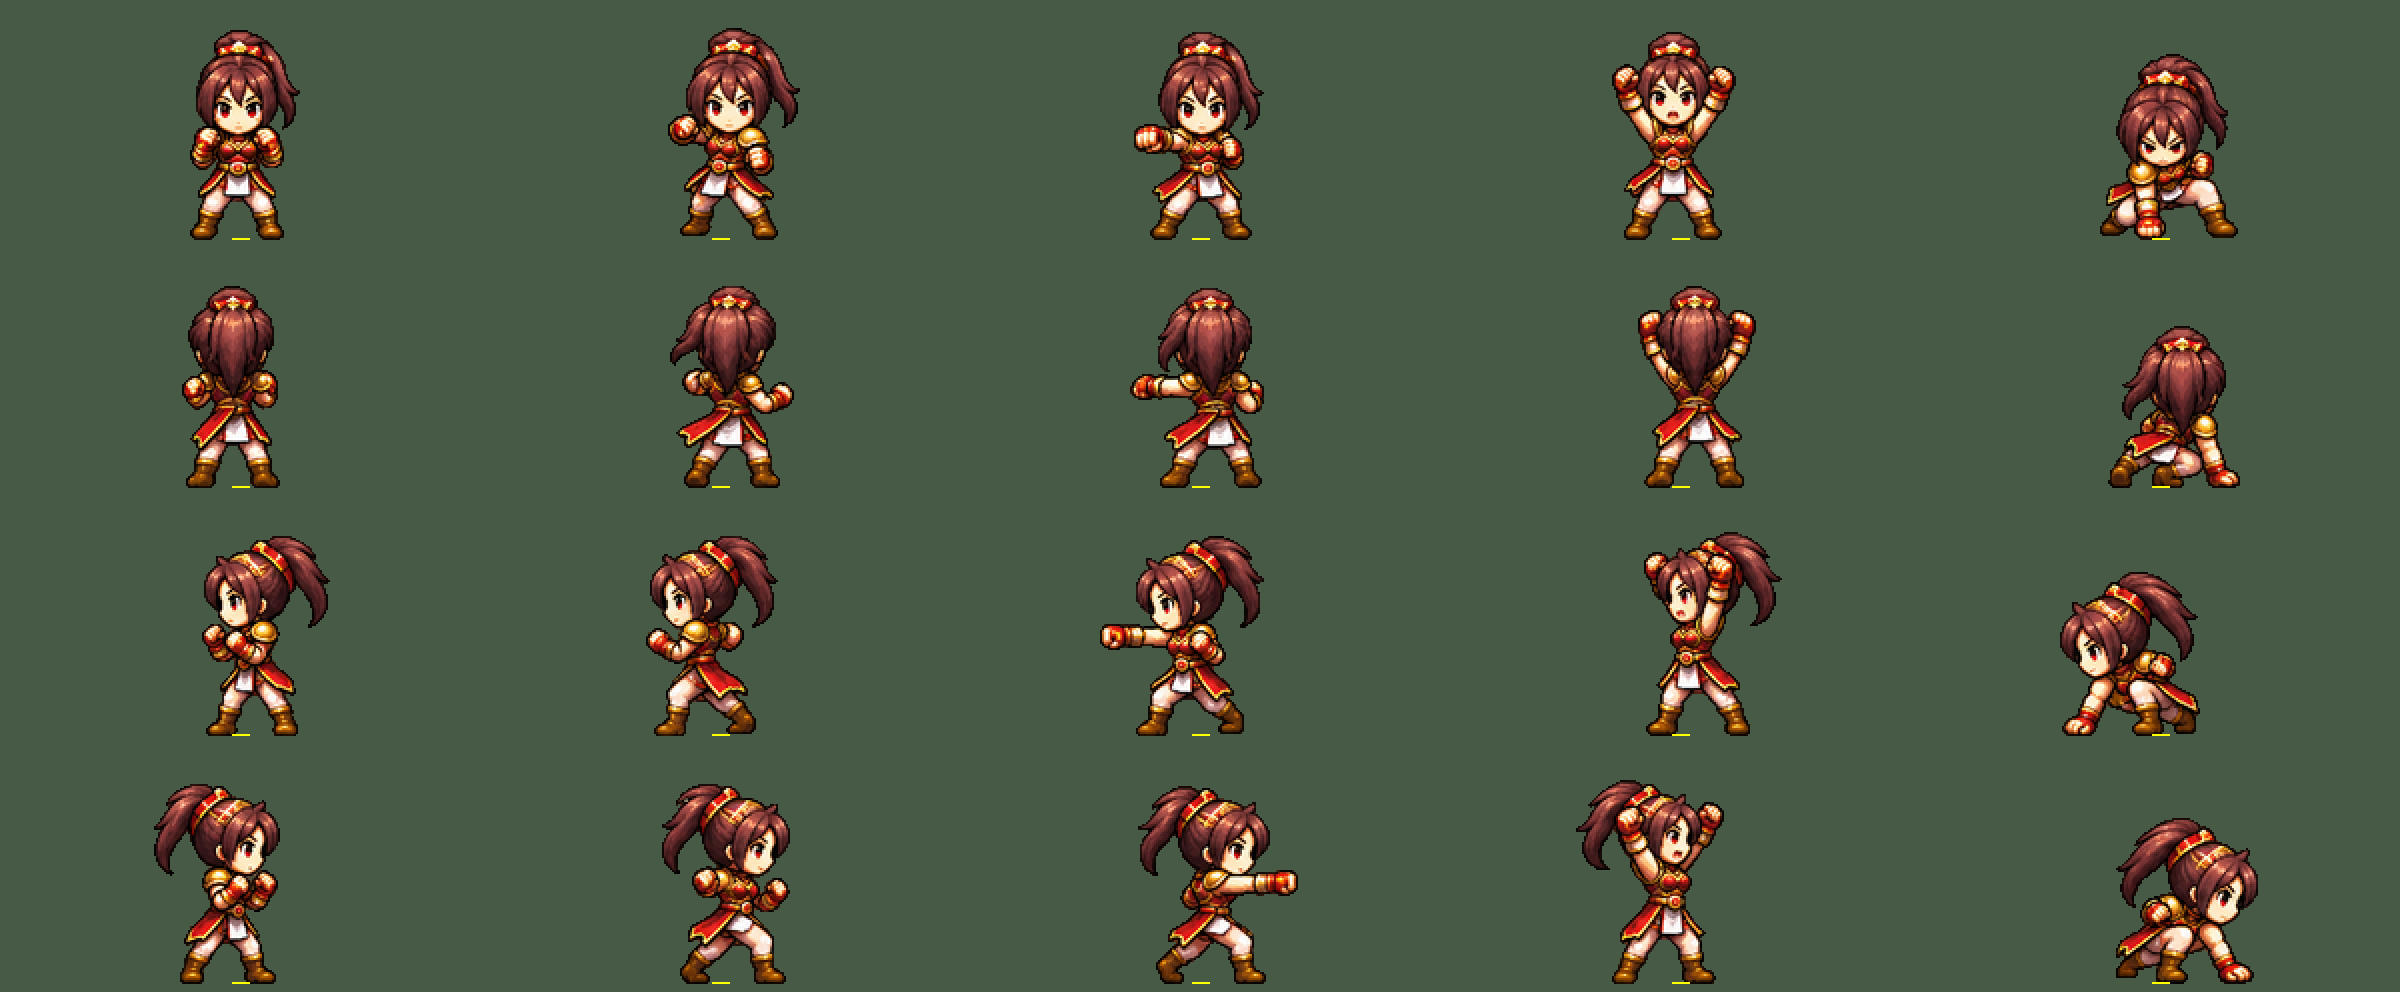
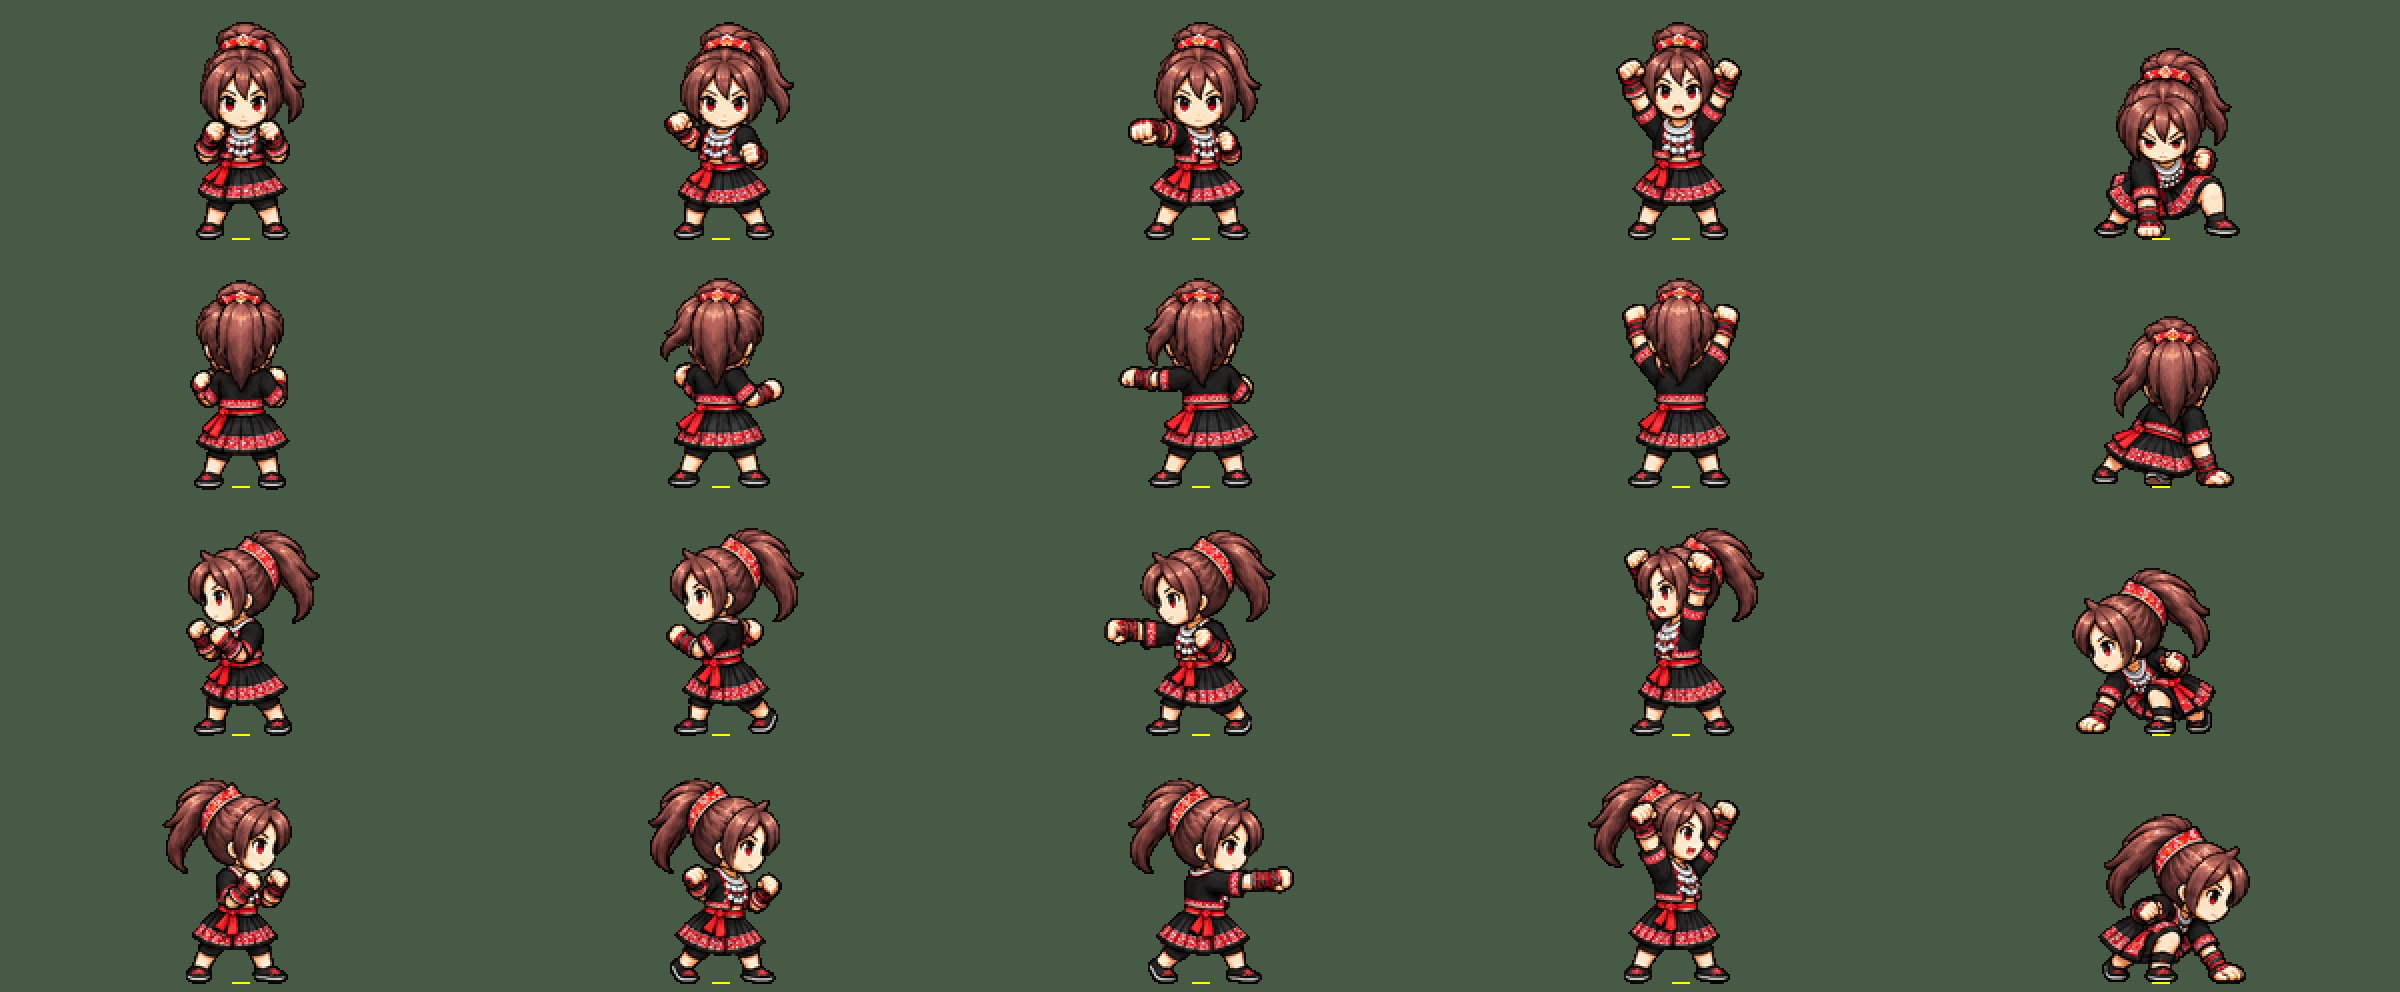
V2-R66: female fighter in Hmong costume (walk and attack sheets)
- Attack sheet: owner's transparent PNG (4 directions x 5 frames) now feeds
  pca_fighter_f. Faint pixels with alpha below 40 (81,885 of them) are removed
  from the source; they inflated the measured frame height, which made the
  attack about 5% shorter than the walk. Heights now match in all four
  directions (1.00 / 0.98 / 0.99 / 1.00).
- Walk sheet: owner's phone screenshot (JPEG, black background). The figures
  were separated from the background by their silhouette, so the black outfit
  is kept. A PNG original would give sharper frames.
- tools/build_class_bodies.py and tools/build_attack4.py point the female
  fighter at the new v3 files.
- Audit 16/16; smoke 149/149, sim 119/119, online 103/103. healthz reports V2-R66.

Claude-Session: https://claude.ai/code/session_01Fx9SAiv1fdMtU2kmML8rNS

diff --git a/server/server.js b/server/server.js
@@ -74,7 +74,7 @@ function createServer(opts = {}) {
     const url = new URL(req.url, 'http://x');
     for (const [k, v] of Object.entries(SEC_HEADERS)) res.setHeader(k, v);
     try {
-      if (req.method === 'GET' && url.pathname === '/healthz') return json(res, 200, { ok: true, ver: 'V2-R64', online: online.size, uptime: Math.round(process.uptime()), admins: conf.admins.length }); // admins = จำนวนชื่อใน ADMIN_USERS (ไม่เปิดเผยชื่อ) ใช้ตรวจว่าตั้งค่าบน Render แล้ว
+      if (req.method === 'GET' && url.pathname === '/healthz') return json(res, 200, { ok: true, ver: 'V2-R66', online: online.size, uptime: Math.round(process.uptime()), admins: conf.admins.length }); // admins = จำนวนชื่อใน ADMIN_USERS (ไม่เปิดเผยชื่อ) ใช้ตรวจว่าตั้งค่าบน Render แล้ว
       if (req.method === 'GET' && (url.pathname === '/' || url.pathname === '/index.html')) {
         res.writeHead(200, { 'content-type': 'text/html; charset=utf-8', 'cache-control': 'no-cache' });
         return fs.createReadStream(conf.gameFile).pipe(res);

diff --git a/game/index.html b/game/index.html
@@ -129,7 +129,7 @@ button:focus-visible{outline:3px solid var(--ink);outline-offset:2px}
 </div>
 <script>
 (function(){
-const ASSET_V='7b201f2af9';/*ASSET_V*/const sprUrl=f=>'sprites/'+f+'?v='+ASSET_V; /* V2-R63: รุ่นของสปริต กันเครื่องที่แคชไฟล์เก่าไว้ */
+const ASSET_V='ab9de86e93';/*ASSET_V*/const sprUrl=f=>'sprites/'+f+'?v='+ASSET_V; /* V2-R63: รุ่นของสปริต กันเครื่องที่แคชไฟล์เก่าไว้ */
 const T=32,COLS=48,ROWS=32,W=COLS*T,H=ROWS*T;
 const hh=(x,y,s)=>{let n=(x*374761393+y*668265263+(s||0)*982451653)|0;n=Math.imul(n^(n>>>13),1274126177);return(((n^(n>>>16))>>>0)/4294967295)};
 const inb=(x,y)=>x>=0&&y>=0&&x<COLS&&y<ROWS;

diff --git a/tools/build_attack4.py b/tools/build_attack4.py
@@ -17,7 +17,7 @@ ATK4_SETS = [  # (ชุด, ไฟล์ต้นฉบับ) — ตัวล
     ('f0', 'swordsman_f_attack.png'),
 ]
 BODY_SETS = [  # (id, อาชีพ, เพศ, ไฟล์ต้นฉบับ) — ตัวละครประจำอาชีพ → game/sprites/pca_<id>.webp (V2-R54) จำนวนเฟรมต่อแถวตามภาพ (4 หรือ 5)
-    ('fighter_f', 'นักสู้', 'f', 'fighter_f_attack.png'),
+    ('fighter_f', 'นักสู้', 'f', 'fighter_f_attack_v3.png'),  # V2-R65: นักสู้หญิงชุดม้ง 5 เฟรม
     ('fighter_m', 'นักสู้', 'm', 'fighter_m_attack.png'),  # V2-R60: นักสู้ชาย 5 เฟรม (ชุดเดียวกับชุดเดินใหม่)
     ('assassin_m', 'นักฆ่า', 'm', 'assassin_m_attack_daggers.png'),  # V2-R61: ท่าโจมตี 4 เฟรมของนักฆ่าชุดใหม่ (ภาพจากมือถือ คัดพื้นดำออก)
     ('assassin_f', 'นักฆ่า', 'f', 'assassin_f_attack_daggers.png'),  # V2-R61

diff --git a/docs/CHANGELOG.md b/docs/CHANGELOG.md
@@ -1,5 +1,17 @@
 # ประวัติเวอร์ชัน
 
+## V2-R66 — 2026-11-15 (นักสู้หญิงชุดม้ง)
+
+- ตามคำสั่ง "แก้ตัวละครนักสู้หญิงให้เป็นตัวละครชุดม้ง": เปลี่ยนชุดนักสู้หญิงจากเกราะแดง-ทองเป็นชุดม้ง (เสื้อดำปักลายแดง-ชมพู กระโปรงจีบดำมีแถบปักแดง สายคาดเอวแดง ห่วงเงินรอบคอ รองเท้าผ้าดำ หางม้าผูกผ้าแดง มือพันผ้าแดง) ให้เข้ากับนักสู้ชาย
+- ท่าโจมตี 4 ทิศ × 5 เฟรม: `assets/sprites_src/classbody/fighter_f_attack_v3.png` (ไฟล์ PNG โปร่งใสจากเจ้าของ) → `game/sprites/pca_fighter_f.webp`
+  - ลบพิกเซลจาง (alpha < 40) 81,885 จุดออกจากไฟล์ต้นทาง เพราะทำให้ตัวตัดภาพคิดความสูงต้นทางสูงเกินจริง ทำให้ท่าโจมตีเตี้ยกว่าท่าเดินประมาณ 5% (แก้แล้ว: ทิศ S/N/W/E = 1.00 / 0.98 / 0.99 / 1.00)
+- ท่าเดิน 4 ทิศ × 4 เฟรม: `assets/sprites_src/classbody/fighter_f_walk_v3.png` ตัดจากภาพแคปหน้าจอ (JPG พื้นดำ) ที่เจ้าของส่งมา โดยแยกตัวละครจากพื้นด้วยรูปทรงของภาพ จึงรักษาชุดสีดำไว้ได้ → `game/sprites/pcl_fighter_f.webp`
+- `tools/build_class_bodies.py`: นักสู้หญิงใช้ `grid_tr('fighter_f_walk_v3.png')` แทน `quad('fighter_f2.png')`; `tools/build_attack4.py`: ใช้ `fighter_f_attack_v3.png` (5 เฟรม)
+- `tools/character_audit.py`: 16/16 ผ่าน
+- ทดสอบ: smoke 149/149, sim 119/119, online 103/103 · จับภาพในเกมทุกทิศ (`evidence/fighter_f_hmong_r66_*.png`)
+- `/healthz` แสดง `V2-R66`
+- ยังไม่ได้ทดสอบบนมือถือจริง ถ้าต้องการความคมชัดของท่าเดินมากขึ้น ส่งไฟล์ PNG ต้นฉบับมาได้
+
 ## V2-R65 — 2026-11-15 (เอกสาร: ชุดคำสั่งทำนักสู้หญิงชุดม้ง)
 
 - ตามคำสั่ง "แก้ตัวละครนักสู้หญิงให้เป็นตัวละครชุดม้ง": เขียนชุดคำสั่งสำหรับ ChatGPT ที่ `docs/prompts/fighter_f_hmong_chatgpt.md` เปลี่ยนชุดจากเกราะแดง-ทองเป็นชุดม้งดั้งเดิมให้เข้ากับนักสู้ชาย คงใบหน้า หางม้า และความหมายของ 5 เฟรมท่าโจมตี (ตั้งท่า · ง้าง · ต่อย · ชูหมัด · ทุบพื้น)

diff --git a/docs/STATUS.md b/docs/STATUS.md
@@ -348,3 +348,10 @@ V2-R20: snapshot แบบย่อ + ระยะมองเห็น + ส่
 | --- | --- | --- |
 | ชุดคำสั่งทำนักสู้หญิงชุดม้ง: เดิน 4 ทิศ × 4 เฟรม และท่าโจมตี 4 ทิศ × 5 เฟรม (ตั้งท่า · ง้าง · ต่อย · ชูหมัด · ทุบพื้น) | ออกแบบแล้ว · รอภาพจากเจ้าของ | `docs/prompts/fighter_f_hmong_chatgpt.md`; ภาพอ้างอิงใน `docs/prompts/ref/` |
 | นักสู้หญิงในเกมยังเป็นชุดเกราะแดง-ทองเดิม | รอภาพใหม่ | ยังไม่เปลี่ยนตัวสร้างภาพ (`quad('fighter_f2.png')` และ `fighter_f_attack.png`) |
+
+## นักสู้หญิงชุดม้ง (V2-R66)
+
+| งาน | สถานะ | วิธีทดสอบ / ผล |
+| --- | --- | --- |
+| นักสู้หญิงชุดม้ง: เดิน 4 ทิศ × 4 เฟรม และท่าโจมตี 4 ทิศ × 5 เฟรม | พัฒนาแล้ว · รอดูบนมือถือจริง | audit 16/16 (ความสูงท่าโจมตี/ท่าเดิน 0.98, เท้าตรงกัน); จับภาพในเกม `evidence/fighter_f_hmong_r66_*.png`; smoke 149/149, sim 119/119, online 103/103 |
+| ท่าเดินนักสู้หญิงตัดจากภาพแคปหน้าจอ (JPG 1080 px) | พัฒนาแล้ว · ไม่บังคับ: ส่ง PNG ต้นฉบับเพื่อความคมชัดได้ | ตรวจบนพื้นหญ้าและในเกมแล้ว ชุดดำไม่หาย |
